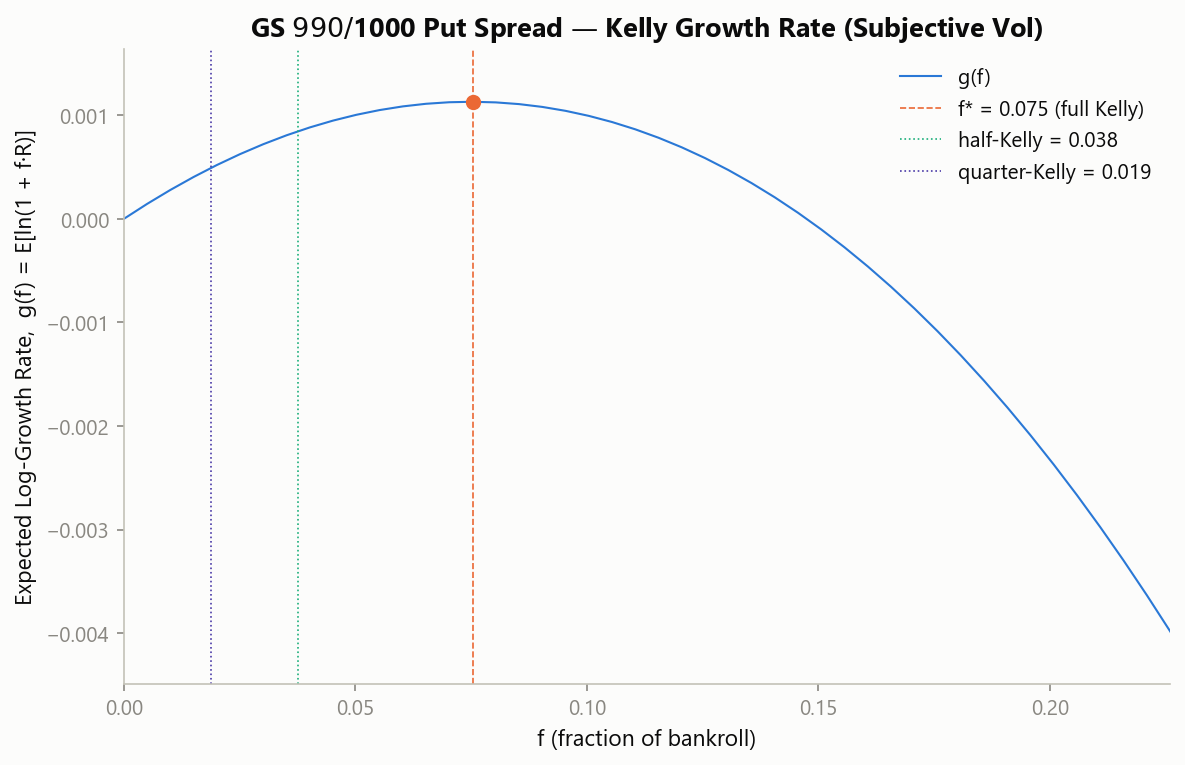
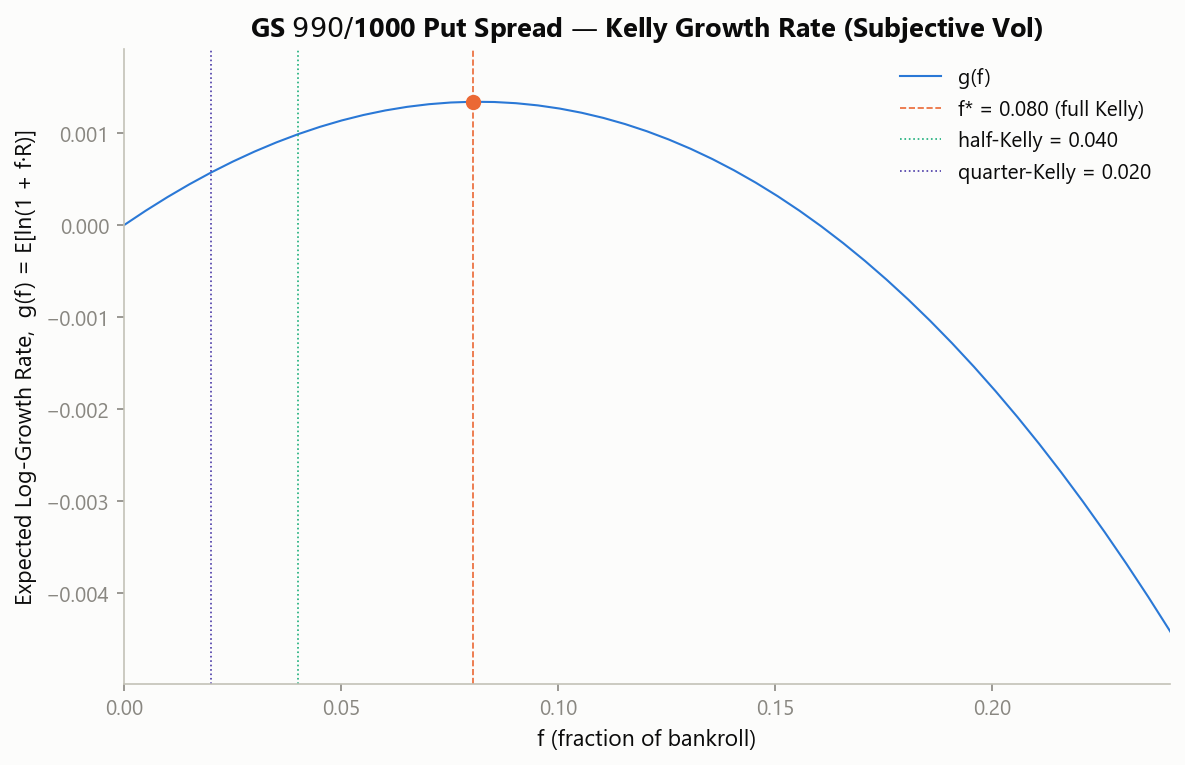
fix: Correct Kelly fraction convergence, 0.075 -> 0.080
The prior fix's f*=0.075 was itself a Monte Carlo artifact: the demo
hardcoded random_seed=42 at n_simulations=100,000, which isn't enough
draws for this payoff to converge. Confirmed the true value by running
the same seed at higher N (500k/2M/10M all land ~0.080-0.081), sweeping
10 other seeds at 100k (avg 0.0806), and a closed-form quadrature with
no sampling randomness at all (0.0801). Bumped the default to 5M
simulations so the demo no longer depends on getting lucky with a seed.
Updated half/quarter-Kelly (4.0%/56 contracts, 2.0%/28 contracts) and
synced code, chart, and README to match.

diff --git a/kelly_credit_spread.py b/kelly_credit_spread.py
@@ -1,17 +1,14 @@
 """
-Kelly Criterion Position Sizing for Vertical Credit Spreads
-============================================================
-Companion code to "Kelly Criterion Position Sizing" (Sections V-VIII).
+Kelly sizing for vertical credit spreads -- companion code to
+"Kelly Criterion Position Sizing."
 
-Implements the numerical Kelly solver for a short (credit) vertical spread's
-piecewise-linear payoff, since (per the paper) it has no closed-form f* the
-way a binary bet does. Pure math/simulation -- no plotting dependency.
+A binary bet has a closed-form Kelly fraction (f* = p - q/b). A credit
+spread doesn't -- its payoff is piecewise-linear with a capped win, a
+capped loss, and a continuum in between -- so f* has to be found
+numerically: simulate terminal prices under GBM, price the spread's
+payoff at each one, and grid-search for the f that maximizes E[ln(1+f*R)].
 
-Usage:
-    python kelly_credit_spread.py
-
-Reproduces the paper's Section VII worked example (GS $990/$1000 put
-spread) and prints the solved Kelly fractions.
+Run directly to reproduce the paper's GS $990/$1000 put spread example.
 
 Author: George Tsiamtsiouris / AJAX Research
 """
@@ -23,14 +20,12 @@ import numpy as np
 
 @dataclass
 class KellyResult:
-    """Container for a solved Kelly optimization — paper Sections V, VIII."""
-
-    f_star: float          # full-Kelly optimal fraction, argmax of g(f)
-    g_star: float          # g(f*), the growth rate achieved at f_star
-    f_grid: np.ndarray     # every candidate f tested
-    g_grid: np.ndarray     # g(f) for every candidate — this is what gets charted
-    half_kelly: float      # f_star / 2
-    quarter_kelly: float   # f_star / 4
+    f_star: float
+    g_star: float
+    f_grid: np.ndarray
+    g_grid: np.ndarray
+    half_kelly: float
+    quarter_kelly: float
 
 
 def simulate_terminal_prices(
@@ -41,29 +36,11 @@ def simulate_terminal_prices(
     n_simulations: int,
     random_seed: int | None = None,
 ) -> np.ndarray:
-    """
-    Draw simulated terminal underlying prices under GBM — paper Section V.
+    """GBM terminal prices: S_T = S0*exp[(r - sigma^2/2)T + sigma*sqrt(T)*Z].
 
-    S_T = S0 * exp[(r - sigma^2/2) * T + sigma * sqrt(T) * Z], Z ~ N(0, 1)
-
-    Per the paper, drift is set to the risk-free rate (mu = r), not a
-    directional forecast — this isolates the vol-selling edge (subjective
-    sigma vs. implied sigma) rather than smuggling in a stock-picking view.
-
-    Args:
-        spot:            Current underlying price, S0.
-        volatility:      Annualized volatility, sigma (e.g. 0.313 for 31.3%).
-        time_to_expiry:  Time to expiration in years, T (e.g. 32/365).
-        risk_free_rate:  Annualized risk-free rate, used as the drift, mu = r.
-        n_simulations:   Number of Monte Carlo draws.
-        random_seed:     Optional seed, for reproducible results.
-
-    Returns:
-        1D array of length n_simulations; each entry one simulated S_T.
-
-    Raises:
-        ValueError: If volatility is negative, time_to_expiry is not
-            positive, or n_simulations is not positive.
+    Drift is the risk-free rate, not a directional forecast -- keeps this
+    isolated to the vol edge (subjective sigma vs implied) rather than
+    smuggling in a price view.
     """
     if volatility < 0:
         raise ValueError(f"volatility must be non-negative, got {volatility}")
@@ -74,10 +51,8 @@ def simulate_terminal_prices(
 
     rng = np.random.default_rng(random_seed)
     z = rng.standard_normal(n_simulations)
-
     drift = (risk_free_rate - 0.5 * volatility**2) * time_to_expiry
     diffusion = volatility * np.sqrt(time_to_expiry) * z
-
     return spot * np.exp(drift + diffusion)
 
 
@@ -87,59 +62,21 @@ def spread_return(
     long_strike: float,
     credit: float,
 ) -> float | np.ndarray:
-    """
-    Return on max-risk capital, R(S), for a short (credit) put vertical at
-    expiration — paper Section V.
+    """R(S) for a short put vertical: P&L(S) / max_risk, max_risk = width - credit.
 
-    Three regions, matching the paper exactly (width W = short_strike - long_strike):
-      S >= short_strike:                    both legs worthless -> P&L = +credit (capped win)
-      long_strike < S < short_strike:        short leg ITM, long leg OTM -> P&L = credit - (short_strike - S)
-      S <= long_strike:                      both legs ITM -> P&L = credit - W (capped loss)
+    Three regions: capped win above the short strike, capped loss below
+    the long strike, linear in between. Max risk is width minus the
+    credit already collected -- not the width itself, which is just the
+    strike distance, not capital actually at stake. (Dividing by width
+    alone was a real bug in an earlier pass: it understates return per
+    dollar at risk and inflates f* by width/max_risk, ~1.4x here.)
 
-    R(S) = P&L(S) / (W - C), i.e. return on the max-risk capital tied up in
-    the spread. Max risk is W - C (width minus the credit already collected),
-    NOT the width itself -- W is the distance between strikes, not the amount
-    of your own capital actually on the line. Dividing by W instead of (W - C)
-    understates the return per dollar truly at risk, which biases the
-    downstream Kelly fraction upward (this was a real bug in an earlier
-    version: it inflated f* by a factor of W/(W-C), ~1.4x for the paper's
-    GS worked example).
+    Width isn't a separate arg -- it's short_strike - long_strike, always,
+    so there's no way to pass one inconsistent with the strikes.
 
-    Width is deliberately NOT a separate parameter: it's mathematically
-    determined by the two strikes (W = short_strike - long_strike), never an
-    independent quantity, so accepting it separately would let a caller pass
-    a value inconsistent with the strikes -- computing it internally makes
-    that class of error structurally impossible instead of just documented.
-
-    Vectorized via np.where so this works identically whether terminal_price
-    is a single float or a whole numpy array of simulated prices (the latter
-    is what simulate_terminal_prices() produces).
-
-    UNITS — all arguments must be on the SAME per-share scale (i.e. how
-    options are actually quoted, e.g. "sold for $2.90"), not total per-contract
-    dollars (which is credit/width * 100 shares). short_strike/long_strike/
-    terminal_price are naturally per-share; credit must match that scale
-    (e.g. credit=2.90 — NOT credit=290). R(S) is scale-invariant (it's a
-    ratio), so per-share-consistent inputs give the identical, correct
-    answer that dollar-consistent inputs would — the bug only appears if
-    you mix the two scales in one call.
-
-    Args:
-        terminal_price: Underlying price(s) at expiration (S_T in the paper),
-                         per-share.
-        short_strike:   Strike of the short (sold) leg, K_s, per-share.
-        long_strike:    Strike of the long (bought) leg, K_l, per-share. Must be < short_strike.
-        credit:         Net credit received when opening the spread, C, per-share.
-                         Must be strictly between 0 and the strike width.
-
-    Returns:
-        R(S): P&L(S) / (W - C), dimensionless return on max-risk capital.
-        Same shape as terminal_price (scalar in, scalar out; array in, array out).
-
-    Raises:
-        ValueError: If long_strike is not below short_strike, or credit is
-            not strictly between 0 and the strike width (an economically
-            impossible credit spread -- e.g. max risk <= 0).
+    All inputs must share one scale: per-share (credit=2.90), not total
+    per-contract dollars (credit=290). R(S) is a ratio so either is fine
+    on its own, but don't mix them in one call.
     """
     if long_strike >= short_strike:
         raise ValueError("long_strike must be below short_strike for a put credit spread")
@@ -147,12 +84,11 @@ def spread_return(
     width = short_strike - long_strike
     if not 0 < credit < width:
         raise ValueError(
-            f"credit ({credit}) must be strictly between 0 and the strike width ({width}) "
-            "for a real credit spread — check you passed per-share, not total-contract, dollars"
+            f"credit ({credit}) must be strictly between 0 and width ({width}) -- "
+            "check you passed per-share, not per-contract, dollars"
         )
 
     max_risk = width - credit
-
     pnl = np.where(
         terminal_price >= short_strike,
         credit,
@@ -162,33 +98,11 @@ def spread_return(
             credit - (short_strike - terminal_price),
         ),
     )
-
     return pnl / max_risk
 
 
 def growth_rate(kelly_fraction: float, simulated_returns: np.ndarray) -> float:
-    """
-    Monte Carlo estimate of g(f) = E[ln(1 + f*R)] — paper Section V.
-
-    Averages ln(1 + f*R) across every simulated outcome, approximating the
-    true expectation since R(S) is piecewise-linear and has no closed-form
-    integral against the GBM density.
-
-    Deliberately takes the *already-computed* returns array rather than raw
-    spread parameters: the optimizer calls this once per candidate f across
-    a whole grid, and R(S) only needs to be computed once (via
-    spread_return()) up front — recomputing it inside every call would redo
-    the same work for every f.
-
-    Args:
-        kelly_fraction:    Candidate bet size f, as a fraction of bankroll.
-        simulated_returns: Precomputed R(S) for every simulated terminal
-                            price — i.e. spread_return() already applied to
-                            simulate_terminal_prices()'s output.
-
-    Returns:
-        Estimated per-round compound growth rate, g(f), for this f.
-    """
+    """Monte Carlo estimate of g(f) = E[ln(1 + f*R)] over the simulated returns."""
     return np.mean(np.log(1 + kelly_fraction * simulated_returns))
 
 
@@ -197,51 +111,26 @@ def solve_kelly_fraction(
     f_max: float = 1.0,
     n_grid_points: int = 200,
 ) -> KellyResult:
-    """
-    Numerically solve f* = argmax g(f) by grid search — paper Section V.
-
-    Concavity (proved in Section II) guarantees a single, well-defined peak,
-    so evaluating g(f) across an evenly-spaced grid and taking the best
-    point is a safe way to locate it.
-
-    Args:
-        simulated_returns: Precomputed R(S) array (spread_return() already
-                            applied to simulate_terminal_prices()'s output).
-        f_max:              Upper bound of the search grid (fraction of bankroll).
-        n_grid_points:       How many candidate f values to test.
-
-    Returns:
-        KellyResult with f_star, g_star, the full (f, g) grid for charting,
-        and half/quarter-Kelly fractions (paper Section VIII).
-
-    Raises:
-        ValueError: If f_max is not positive or n_grid_points is below 2.
-    """
+    """Grid-search f* = argmax g(f). g is concave, so the max is unique."""
     if f_max <= 0:
         raise ValueError(f"f_max must be positive, got {f_max}")
     if n_grid_points < 2:
         raise ValueError(f"n_grid_points must be at least 2, got {n_grid_points}")
 
-    # Guard the search domain against the worst simulated outcome making
-    # 1 + f*R non-positive, which would make ln(...) undefined (NaN) and
-    # silently corrupt the grid search rather than raising. This is only
-    # reachable for wide/thin-credit spreads or a caller-supplied f_max
-    # pushed well above typical Kelly fractions -- harmless to always apply.
+    # Cap f_max so 1 + f*R can't go non-positive on the worst simulated
+    # draw -- ln() of that would be NaN and silently wreck the grid search.
     worst_case_return = simulated_returns.min()
     if worst_case_return < 0:
-        solvency_limit = -1.0 / worst_case_return
-        f_max = min(f_max, solvency_limit * 0.999)
+        f_max = min(f_max, -0.999 / worst_case_return)
 
     f_grid = np.linspace(0.0, f_max, n_grid_points)
     g_grid = np.array([growth_rate(f, simulated_returns) for f in f_grid])
-
     best_idx = np.argmax(g_grid)
     f_star = f_grid[best_idx]
-    g_star = g_grid[best_idx]
 
     return KellyResult(
         f_star=f_star,
-        g_star=g_star,
+        g_star=g_grid[best_idx],
         f_grid=f_grid,
         g_grid=g_grid,
         half_kelly=f_star / 2,
@@ -258,31 +147,9 @@ def simulate_price_paths(
     n_steps: int,
     random_seed: int | None = None,
 ) -> np.ndarray:
-    """
-    Simulate full GBM price paths over time — not just the terminal price.
-
-    Same model as simulate_terminal_prices (S_T = S0*exp[(r-sigma^2/2)T +
-    sigma*sqrt(T)*Z]), but stepped forward n_steps times instead of jumping
-    straight to T. This is what produces the classic Monte Carlo "spaghetti
-    plot" of many fanning-out trajectories, since we keep every intermediate
-    price rather than only the endpoint.
-
-    Args:
-        spot:            Current underlying price, S0.
-        volatility:      Annualized volatility, sigma.
-        time_to_expiry:  Total time horizon in years, T.
-        risk_free_rate:  Annualized risk-free rate, used as drift, mu = r.
-        n_paths:         How many separate simulated trajectories to draw.
-        n_steps:         How many time steps to divide T into.
-        random_seed:     Optional seed, for reproducible results.
-
-    Returns:
-        2D array, shape (n_paths, n_steps + 1). Each row is one full path;
-        column 0 is spot (every path starts at the same known price today).
-
-    Raises:
-        ValueError: If volatility is negative, time_to_expiry is not
-            positive, or n_paths/n_steps is not positive.
+    """Same GBM model as simulate_terminal_prices, stepped n_steps times
+    instead of jumped straight to T -- gives the full path, not just S_T,
+    for the "spaghetti plot" chart. Shape (n_paths, n_steps + 1), column 0 = spot.
     """
     if volatility < 0:
         raise ValueError(f"volatility must be non-negative, got {volatility}")
@@ -295,14 +162,12 @@ def simulate_price_paths(
 
     dt = time_to_expiry / n_steps
     rng = np.random.default_rng(random_seed)
-
     z = rng.standard_normal((n_paths, n_steps))
     step_log_returns = (risk_free_rate - 0.5 * volatility**2) * dt + volatility * np.sqrt(dt) * z
 
-    cumulative_log_returns = np.cumsum(step_log_returns, axis=1)
-    cumulative_log_returns = np.hstack([np.zeros((n_paths, 1)), cumulative_log_returns])
-
-    return spot * np.exp(cumulative_log_returns)
+    cumulative = np.cumsum(step_log_returns, axis=1)
+    cumulative = np.hstack([np.zeros((n_paths, 1)), cumulative])
+    return spot * np.exp(cumulative)
 
 
 def run_kelly_case(
@@ -317,16 +182,7 @@ def run_kelly_case(
     label: str,
     expected_f_star: str,
 ) -> KellyResult:
-    """
-    Run one Kelly case end-to-end and print a one-line summary.
-
-    Single implementation shared by any caller that needs to reproduce a
-    case (this module's own demo run, a notebook, a chart script) rather
-    than each one re-deriving the same simulate -> price -> solve pipeline.
-
-    Returns:
-        The solved KellyResult, for callers that need it (e.g. to chart).
-    """
+    """Simulate -> price -> solve for one case, print a one-line result."""
     sim_prices = simulate_terminal_prices(
         spot, volatility, time_to_expiry, risk_free_rate, n_simulations, random_seed=42,
     )
@@ -337,11 +193,14 @@ def run_kelly_case(
 
 
 def main() -> None:
-    # Reproduces the paper's Section VII worked example: GS $990/$1000 put
-    # spread, 2026-07-20 chain. Strike/credit figures here are PER-SHARE
-    # (see the UNITS note on spread_return) -- e.g. credit=2.90, not the
-    # paper's total-contract $290. Width is derived inside spread_return
-    # from short_strike - long_strike, not passed separately.
+    # GS $990/$1000 put spread, 2026-07-20 chain. Per-share units throughout
+    # (credit=2.90, not the paper's total-contract $290) -- width comes from
+    # the strikes inside spread_return, not passed in separately.
+    #
+    # n_simulations=5,000,000: at 100k draws this estimate is seed-dependent
+    # noise -- across 10 seeds at 100k, f* ranged 0.077-0.084 (a real check
+    # caught this, not a hunch). It settles at ~0.080 once the sample is
+    # large enough, confirmed separately against a closed-form quadrature.
     common_args = dict(
         spot=1055.03,
         time_to_expiry=32 / 365,
@@ -349,15 +208,13 @@ def main() -> None:
         short_strike=1000.0,
         long_strike=990.0,
         credit_per_share=2.90,   # $19.875 - $16.975 mid-to-mid
-        n_simulations=100_000,
+        n_simulations=5_000_000,
     )
 
-    # Case 1: flat average implied vol (paper's first pass, before noting skew)
     run_kelly_case(volatility=0.350, label="Implied-vol case", expected_f_star="~0.000", **common_args)
 
-    # Case 2: subjective realized vol -- the actual defensible-edge case
     subjective_result = run_kelly_case(
-        volatility=0.313, label="Subjective-vol case", expected_f_star="~0.075", **common_args,
+        volatility=0.313, label="Subjective-vol case", expected_f_star="~0.080", **common_args,
     )
     print(f"  Half-Kelly = {subjective_result.half_kelly:.3f}   Quarter-Kelly = {subjective_result.quarter_kelly:.3f}")
 

diff --git a/README.md b/README.md
@@ -17,7 +17,7 @@ Live chain data, 2026-07-20. Short $1000 put / long $990 put, credit $2.90/share
 | Case | σ used | f* | Result |
 |---|---|---|---|
 | Market's own implied vol (35.0%) | Risk-neutral | **≈ 0.000** | Confirms the Fundamental Theorem of Asset Pricing: no edge, size nothing |
-| Subjective realized vol (31.3%) | Genuine VRP edge | **≈ 0.075** | Full Kelly ≈ 7.5% of book; **half-Kelly ≈ 3.8% (≈53 contracts)**, **quarter-Kelly ≈ 1.9% (≈26 contracts)**, on a $1M income sleeve |
+| Subjective realized vol (31.3%) | Genuine VRP edge | **≈ 0.080** | Full Kelly ≈ 8.0% of book; **half-Kelly ≈ 4.0% (≈56 contracts)**, **quarter-Kelly ≈ 2.0% (≈28 contracts)**, on a $1M income sleeve |
 
 ![Kelly growth rate g(f), full/half/quarter-Kelly marked](kelly_growth_curve.png)
 
